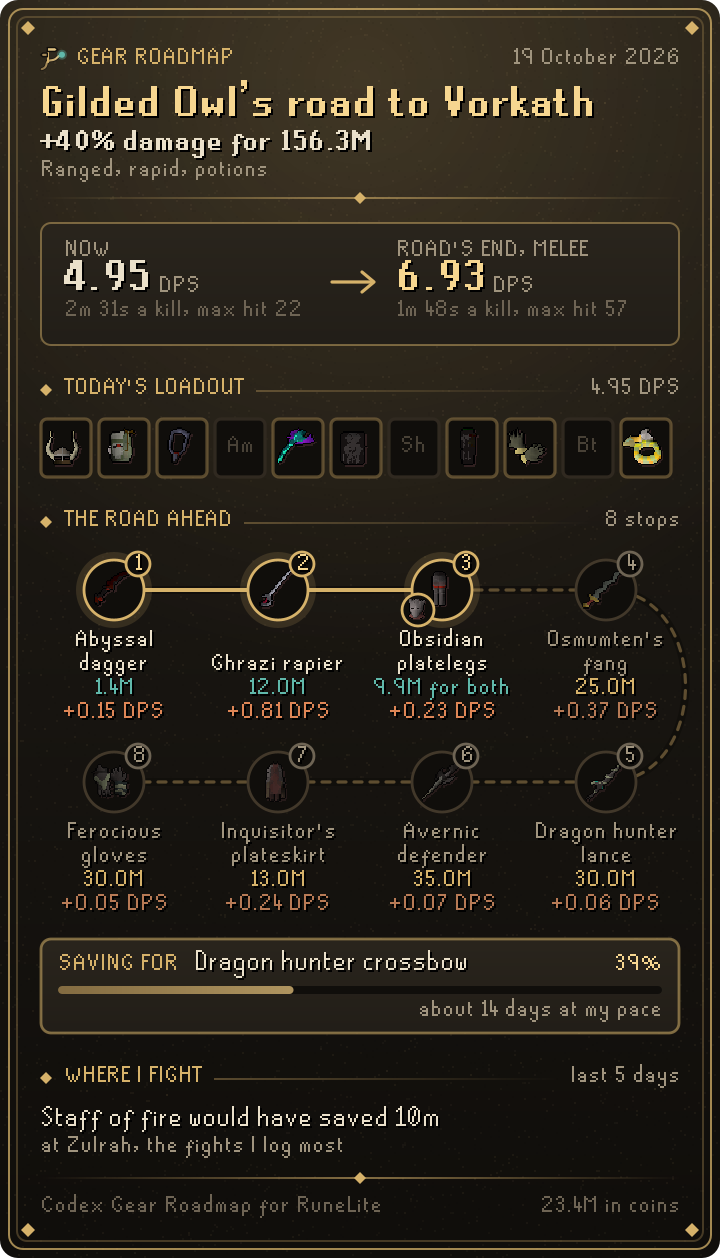
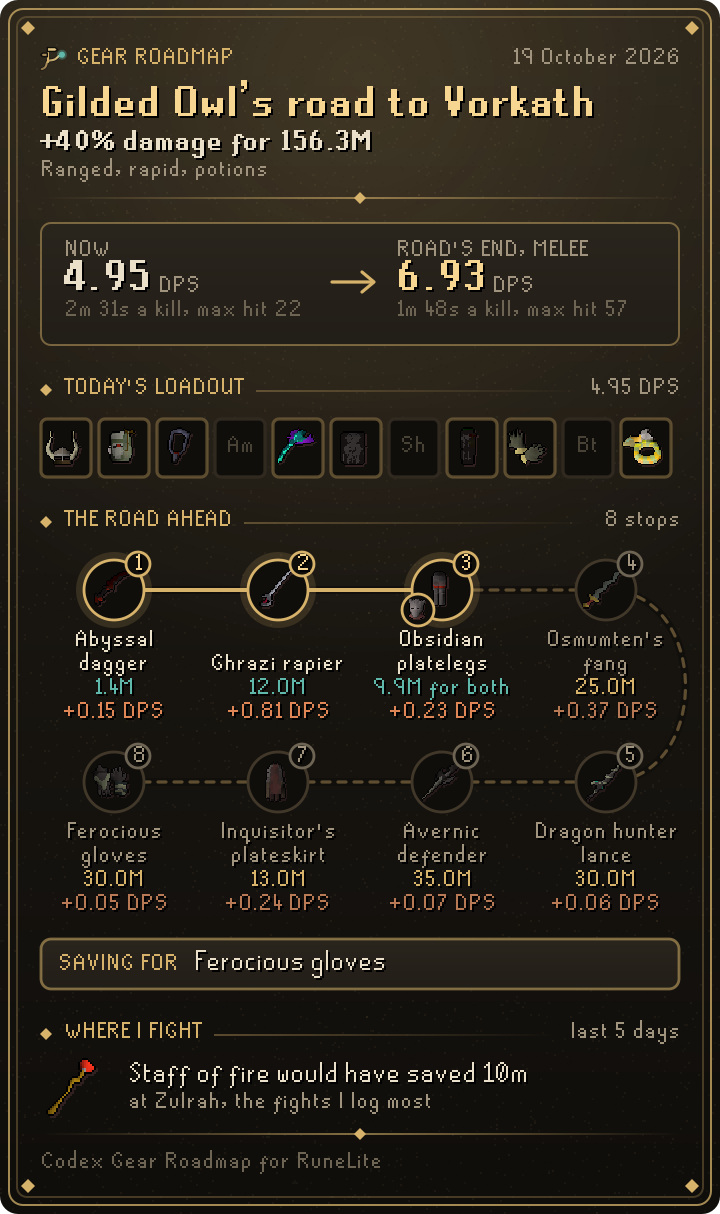
Keep worth off the road card unless asked, and put a met goal on the road behind
Worth on cards (off by default) decides whether the road card shows your
coins and how far they go toward your savings goal. Buying the upgrade you
saved for marked it claimed before the road was checked, so the biggest buy
of all never reached Road behind.

diff --git a/src/main/java/com/codex/gearroadmap/ui/RoadCard.java b/src/main/java/com/codex/gearroadmap/ui/RoadCard.java
@@ -75,12 +75,21 @@ public final class RoadCard
 		return "+" + share + "% damage " + (ironman ? "for gear worth " : "for ") + Format.coins(total);
 	}
 
-	/** Renders the card; pictures still loading are left out and onLoaded runs when one arrives. */
+	/** Renders the card with the coins on it; pictures still loading are left out and onLoaded runs when one arrives. */
 	public static BufferedImage render(Report report, String player, ItemIcons icons, long now, Runnable onLoaded)
+	{
+		return render(report, player, icons, now, onLoaded, true);
+	}
+
+	/**
+	 * @param worth whether the card may show what the player has: the coins at its foot and how far
+	 *     they go toward the savings goal. Off, a card can be shared without telling anyone your wealth.
+	 */
+	public static BufferedImage render(Report report, String player, ItemIcons icons, long now, Runnable onLoaded, boolean worth)
 	{
 		BufferedImage scratch = new BufferedImage(1, 1, BufferedImage.TYPE_INT_ARGB);
 		Graphics2D sg = scratch.createGraphics();
-		int height = content(sg, report, player, icons, now, onLoaded);
+		int height = content(sg, report, player, icons, now, onLoaded, worth);
 		sg.dispose();
 
 		BufferedImage image = new BufferedImage(WIDTH * SCALE, height * SCALE, BufferedImage.TYPE_INT_ARGB);
@@ -88,7 +97,7 @@ public final class RoadCard
 		g.scale(SCALE, SCALE);
 		Theme.smooth(g);
 		frame(g, height);
-		content(g, report, player, icons, now, onLoaded);
+		content(g, report, player, icons, now, onLoaded, worth);
 		g.dispose();
 		return image;
 	}
@@ -123,7 +132,7 @@ public final class RoadCard
 		}
 	}
 
-	private static int content(Graphics2D g, Report report, String player, ItemIcons icons, long now, Runnable onLoaded)
+	private static int content(Graphics2D g, Report report, String player, ItemIcons icons, long now, Runnable onLoaded, boolean worth)
 	{
 		Theme.smooth(g);
 		Roadmap map = report.getRoadmap();
@@ -196,7 +205,7 @@ public final class RoadCard
 		Savings.View savings = report.getSavings();
 		if (savings != null)
 		{
-			y = savings(g, savings, x, y, cw) + 12;
+			y = savings(g, savings, worth, x, y, cw) + 12;
 		}
 
 		List<Fights.Pick> fights = report.getFights();
@@ -234,10 +243,17 @@ public final class RoadCard
 		g.setFont(Theme.small());
 		g.setColor(Theme.TEXT_FAINT);
 		g.drawString("Codex Gear Roadmap for RuneLite", x, y + small.getAscent());
-		String coins = report.isIronman() ? "Ironman" : map.getCoins() <= 0 ? "No coins yet" : Format.coins(map.getCoins()) + " in coins";
+		String coins = foot(report, worth);
 		g.drawString(coins, x + cw - small.stringWidth(coins), y + small.getAscent());
 		y += small.getHeight();
 		return y + PAD;
+	}
+
+	/** The card's foot: "441.8M in coins", "Ironman", or nothing when worth is kept off the card. */
+	static String foot(Report report, boolean worth)
+	{
+		long coins = report.getRoadmap().getCoins();
+		return report.isIronman() ? "Ironman" : !worth ? "" : coins <= 0 ? "No coins yet" : Format.coins(coins) + " in coins";
 	}
 
 	/** Damage now and at the road's end, the kill time each way and the max hit. */
@@ -496,12 +512,14 @@ public final class RoadCard
 	}
 
 	/** The savings goal as a ribbon: how far the coins go and, with Ledger, roughly how many days are left. */
-	private static int savings(Graphics2D g, Savings.View v, int x, int y, int cw)
+	private static int savings(Graphics2D g, Savings.View v, boolean worth, int x, int y, int cw)
 	{
 		boolean done = v.isOwned() || v.isAffordable();
+		// Without worth on the card, how far the coins go (a share, a bar, what is left) stays off it.
 		String pace = done ? "" : v.getDays() > 0 ? "about " + v.getDays() + (v.getDays() == 1 ? " day" : " days") + " at my pace"
-			: Format.coins(v.getRemaining()) + " to go";
-		int h = pace.isEmpty() ? 34 : 48;
+			: worth ? Format.coins(v.getRemaining()) + " to go" : "";
+		boolean bar = worth || v.isOwned();
+		int h = pace.isEmpty() ? (bar ? 34 : 26) : bar ? 48 : 34;
 		RoundRectangle2D box = new RoundRectangle2D.Float(x + 0.5f, y + 0.5f, cw - 1, h - 1, Theme.RADIUS, Theme.RADIUS);
 		g.setPaint(new GradientPaint(x, y, Theme.CARD_TOP, x, y + h, Theme.CARD));
 		g.fill(box);
@@ -512,7 +530,7 @@ public final class RoadCard
 		String tag = v.isOwned() ? "SAVED FOR" : "SAVING FOR";
 		g.setColor(done ? Theme.TEAL : Theme.GOLD);
 		g.drawString(tag, x + 9, y + 7 + small.getAscent());
-		String pct = v.isOwned() ? "yours" : Math.round(v.getProgress() * 100) + "%";
+		String pct = v.isOwned() ? "yours" : !worth ? (v.isAffordable() ? "in reach" : "") : Math.round(v.getProgress() * 100) + "%";
 		g.setColor(done ? Theme.TEAL : Theme.GOLD_BRIGHT);
 		g.drawString(pct, x + cw - 9 - small.stringWidth(pct), y + 7 + small.getAscent());
 		g.setFont(Theme.body());
@@ -520,11 +538,14 @@ public final class RoadCard
 		int tx = x + 9 + small.stringWidth(tag) + 8;
 		ProgressRing.drawShadowed(g, clip(v.getOption().getName(), fm, x + cw - 9 - small.stringWidth(pct) - 8 - tx), tx,
 			y + 7 + small.getAscent(), Theme.TEXT);
-		int by = y + 24;
-		g.setColor(Theme.INK_DEEP);
-		g.fill(new RoundRectangle2D.Float(x + 9, by, cw - 18, 4, 4, 4));
-		g.setPaint(new GradientPaint(x + 9, 0, Theme.GOLD_DIM, x + cw - 9, 0, done ? Theme.TEAL : Theme.GOLD_BRIGHT));
-		g.fill(new RoundRectangle2D.Float(x + 9, by, (float) Math.max(4, (cw - 18) * Math.min(1, v.isOwned() ? 1 : v.getProgress())), 4, 4, 4));
+		int by = bar ? y + 24 : y + 14;
+		if (bar)
+		{
+			g.setColor(Theme.INK_DEEP);
+			g.fill(new RoundRectangle2D.Float(x + 9, by, cw - 18, 4, 4, 4));
+			g.setPaint(new GradientPaint(x + 9, 0, Theme.GOLD_DIM, x + cw - 9, 0, done ? Theme.TEAL : Theme.GOLD_BRIGHT));
+			g.fill(new RoundRectangle2D.Float(x + 9, by, (float) Math.max(4, (cw - 18) * Math.min(1, v.isOwned() ? 1 : v.getProgress())), 4, 4, 4));
+		}
 		g.setFont(Theme.small());
 		g.setColor(Theme.TEXT_MUTED);
 		if (!pace.isEmpty())

diff --git a/src/main/java/com/codex/gearroadmap/CodexGearRoadmapPlugin.java b/src/main/java/com/codex/gearroadmap/CodexGearRoadmapPlugin.java
@@ -19,6 +19,7 @@ import com.codex.gearroadmap.data.Gear;
 import com.codex.gearroadmap.data.RoadmapData;
 import com.codex.gearroadmap.data.Target;
 import com.codex.gearroadmap.overlay.UpgradePlaque;
+import com.codex.gearroadmap.ui.CardPictures;
 import com.codex.gearroadmap.ui.Format;
 import com.codex.gearroadmap.ui.GearRoadmapPanel;
 import com.codex.gearroadmap.ui.IconWatch;
@@ -300,6 +301,7 @@ public class CodexGearRoadmapPlugin extends Plugin
 			}
 		});
 		panel.setShowName(config.nameOnCard());
+		panel.setShowWorth(config.worthOnCard());
 		navButton = NavigationButton.builder()
 			.tooltip("Codex Gear Roadmap")
 			.icon(Sigil.icon(16))
@@ -343,6 +345,8 @@ public class CodexGearRoadmapPlugin extends Plugin
 		overlayManager.remove(plaque);
 		clientToolbar.removeNavigation(navButton);
 		plaque.clear();
+		// A card still waiting for its pictures is never saved or copied once the plugin is off.
+		CardPictures.cancel();
 		generation.incrementAndGet();
 		clientThread.invokeLater(this::forget);
 		panel = null;
@@ -492,14 +496,19 @@ public class CodexGearRoadmapPlugin extends Plugin
 		{
 			plaque.clear();
 		}
-		if (CodexGearRoadmapConfig.NAME_ON_CARD.equals(event.getKey()))
+		if (CodexGearRoadmapConfig.NAME_ON_CARD.equals(event.getKey()) || CodexGearRoadmapConfig.WORTH_ON_CARD.equals(event.getKey()))
 		{
-			// Only the road card, drawn when asked for, uses it: nothing to plan again.
+			// Only the road card, drawn when asked for, uses them: nothing to plan again.
 			GearRoadmapPanel target = panel;
 			boolean showName = config.nameOnCard();
+			boolean showWorth = config.worthOnCard();
 			if (target != null)
 			{
-				SwingUtilities.invokeLater(() -> target.setShowName(showName));
+				SwingUtilities.invokeLater(() ->
+				{
+					target.setShowName(showName);
+					target.setShowWorth(showWorth);
+				});
 			}
 			return;
 		}
@@ -898,8 +907,13 @@ public class CodexGearRoadmapPlugin extends Plugin
 		{
 			return;
 		}
-		// The same upgrade on the road is not claimed a second time.
+		// The same upgrade on the road is not claimed a second time, but it is still on the road
+		// behind: the goal met is the biggest buy of all, and its plaque said so already.
 		claimed.add(goal.getName());
+		if (taskWatch.isSettled())
+		{
+			rememberClaim(goal.getName());
+		}
 		Gear icon = pieces.get(0);
 		for (Gear g : pieces)
 		{
@@ -1029,6 +1043,27 @@ public class CodexGearRoadmapPlugin extends Plugin
 		goalAnnounced = false;
 		saveGoal();
 		dirty = true;
+	}
+
+	/** Puts a stop of the latest road on the road behind, if it is one. */
+	private void rememberClaim(String name)
+	{
+		Roadmap map = lastRoadmap;
+		if (map == null)
+		{
+			return;
+		}
+		for (Roadmap.Step step : map.getPath())
+		{
+			Roadmap.Option option = step.getOption();
+			if (option.getName().equals(name))
+			{
+				claims.add(new Claims.Claim(option.getName(), option.getIcon().getId(), option.getGain(), map.getTarget().getName(),
+					System.currentTimeMillis()));
+				saveClaims();
+				return;
+			}
+		}
 	}
 
 	private void loadClaims()

diff --git a/src/main/java/com/codex/gearroadmap/ui/GearRoadmapPanel.java b/src/main/java/com/codex/gearroadmap/ui/GearRoadmapPanel.java
@@ -43,6 +43,7 @@ public class GearRoadmapPanel extends PluginPanel
 	private String playerName;
 	/** Whether the road card carries the character's name, from the settings. */
 	private boolean showName = true;
+	private boolean showWorth;
 	private String search = "";
 	private Roadmap.Option preview;
 	/** The listed monster being fought, and the one the player hid the offer for. */
@@ -165,6 +166,12 @@ public class GearRoadmapPanel extends PluginPanel
 		return report == null || report.getRoadmap() == null ? null : report.getRoadmap().getTarget().getName();
 	}
 
+	/** Whether the road card shows the player's coins and how far they go; used when the card is next drawn. */
+	public void setShowWorth(boolean showWorth)
+	{
+		this.showWorth = showWorth;
+	}
+
 	/** Whether the road card carries the character's name; used when the card is next drawn. */
 	public void setShowName(boolean showName)
 	{
@@ -262,8 +269,9 @@ public class GearRoadmapPanel extends PluginPanel
 	{
 		Report drawn = report;
 		String name = showName ? playerName : null;
+		boolean worth = showWorth;
 		long now = System.currentTimeMillis();
-		CardPictures.draw(icons, pictures -> RoadCard.render(drawn, name, pictures, now, null), deliver);
+		CardPictures.draw(icons, pictures -> RoadCard.render(drawn, name, pictures, now, null, worth), deliver);
 	}
 
 	private void saveCard()

diff --git a/src/test/java/com/codex/gearroadmap/ui/RoadCardTest.java b/src/test/java/com/codex/gearroadmap/ui/RoadCardTest.java
@@ -111,4 +111,26 @@ public class RoadCardTest
 			null, null, NOW, () -> { });
 		assertTrue(empty.getHeight() < card.getHeight());
 	}
+
+	@Test
+	public void worthStaysOffTheCardUnlessAskedFor()
+	{
+		Report report = new Report(true, vorkath, Collections.emptyList(), "Potions", 40, true);
+		assertEquals(Format.coins(vorkath.getCoins()) + " in coins", RoadCard.foot(report, true));
+		assertEquals("", RoadCard.foot(report, false));
+		// Without worth the card still draws whole.
+		BufferedImage card = RoadCard.render(report, null, null, NOW, null, false);
+		assertEquals(RoadCard.WIDTH * RoadCard.SCALE, card.getWidth());
+	}
+
+	@Test
+	public void theChartsFiguresNeverRunIntoItsTitle()
+	{
+		FontMetrics fm = new BufferedImage(1, 1, BufferedImage.TYPE_INT_ARGB).createGraphics().getFontMetrics(new Font(Font.MONOSPACED, Font.PLAIN, 10));
+		String wide = "6.93 DPS  ·  156.3M";
+		assertEquals(wide, RoadChart.top("6.93", "156.3M", fm, fm.stringWidth(wide)));
+		// Once drawn as "THE ROAD AHEAD6.93 DPS · 156.3M" at the panel's width.
+		assertEquals("6.93 DPS · 156.3M", RoadChart.top("6.93", "156.3M", fm, fm.stringWidth(wide) - 1));
+		assertEquals("6.93 DPS", RoadChart.top("6.93", "156.3M", fm, fm.stringWidth("6.93 DPS · 1")));
+	}
 }

diff --git a/src/main/java/com/codex/gearroadmap/CodexGearRoadmapConfig.java b/src/main/java/com/codex/gearroadmap/CodexGearRoadmapConfig.java
@@ -19,6 +19,7 @@ public interface CodexGearRoadmapConfig extends Config
 	String OLD_ON_TASK = "onTask";
 	String FOLLOW_TASK = "followTask";
 	String NAME_ON_CARD = "nameOnCard";
+	String WORTH_ON_CARD = "worthOnCard";
 
 	@ConfigSection(
 		name = "Fighting",
@@ -143,5 +144,16 @@ public interface CodexGearRoadmapConfig extends Config
 	default boolean nameOnCard()
 	{
 		return true;
+	}
+
+	@ConfigItem(
+		keyName = WORTH_ON_CARD,
+		name = "Worth on cards",
+		description = "Show your coins, and how far they go toward your savings goal, on the road card; off, it can be shared without them",
+		position = 3
+	)
+	default boolean worthOnCard()
+	{
+		return false;
 	}
 }

diff --git a/README.md b/README.md
@@ -22,9 +22,9 @@ It is the fourth plugin in the **Codex** suite, after [Codex Navigator](https://
 - **Levels that pay.** The Loadout tab lists the next Strength, Attack, Ranged or Magic level that would raise your damage in the gear you already wear, and the Prayer or Defence level that unlocks a stronger prayer (Piety at 70 Defence, say), with the new max hit or prayer and what the road ahead would charge in coins for the same extra damage.
 - **Put on.** The Loadout tab compares what you are wearing with the best you own against your target: the pieces to put on, weapon first, whether each is in your inventory or your bank, and the damage the change adds. When you are already wearing it, it says so.
 - **Outgrown.** At the foot of the Roadmap tab, the combat gear you own that none of your best loadouts wear, for any style against any target, with what it sells for and how much of your next upgrade that would pay. Gear you can't wield yet, ammunition, pieces under 50k and gear kept for what it does (dragonfire shields, slayer and tank gear, special attack weapons, teleport jewellery), skilling tools and anything untradeable are never listed. Not shown to ironmen.
-- **Share your road.** At the foot of the Roadmap tab, **Save card** or **Copy** turns your road into a gilt card to post: your name and target, the damage you do now against the road's end with kill times and max hits, today's loadout slot by slot, every stop on a winding road with its item, price and damage (lit gold as far as your coins go), your savings goal with the days it should take by [Codex Ledger](https://github.com/Nubles/OSRS-Codex-Ledger), and the buy that would have saved you the most time where [Codex Session Chronicle](https://github.com/Nubles/OSRS-Codex-Session-Chronicle) says you fight. A pair bought together is named by its first piece with the second on the ring's shoulder and its price "for both". The card is drawn only when you press a button, waits a moment for any item picture still loading so no stop is left as an empty ring, and saved wherever you choose with RuneLite's file chooser.
+- **Share your road.** At the foot of the Roadmap tab, **Save card** or **Copy** turns your road into a gilt card to post: your name and target, the damage you do now against the road's end with kill times and max hits, today's loadout slot by slot, every stop on a winding road with its item, price and damage (lit gold as far as your coins go), your savings goal with the days it should take by [Codex Ledger](https://github.com/Nubles/OSRS-Codex-Ledger), and the buy that would have saved you the most time where [Codex Session Chronicle](https://github.com/Nubles/OSRS-Codex-Session-Chronicle) says you fight. A pair bought together is named by its first piece with the second on the ring's shoulder and its price "for both". The card is drawn only when you press a button, waits a moment for any item picture still loading so no stop is left as an empty ring, and saved wherever you choose with RuneLite's file chooser. Your coins, and how far they go toward your savings goal, stay off the card unless you turn on **Worth on cards**; prices are written as in Codex Ledger and Session Chronicle ("60k", "12.0M", "1.60B").
 - **Upgrade plaque.** When you get an upgrade from your road, a gilt plaque shows the damage it adds and what is next. A matching line can go to the chat box too.
-- **Road behind.** Each upgrade you pick up from the road is kept, per account, with the damage it added, where and the day: the Roadmap tab lists the latest five under **Road behind**, so you can see how far the road has come.
+- **Road behind.** Each upgrade you pick up from the road is kept, per account, with the damage it added, where and the day: the Roadmap tab lists the latest five under **Road behind**, so you can see how far the road has come. Meeting your savings goal puts it there too.
 
 <p align="center">
   <img src="docs/screenshots/preview.png" width="225" alt="Previewing an upgrade">
